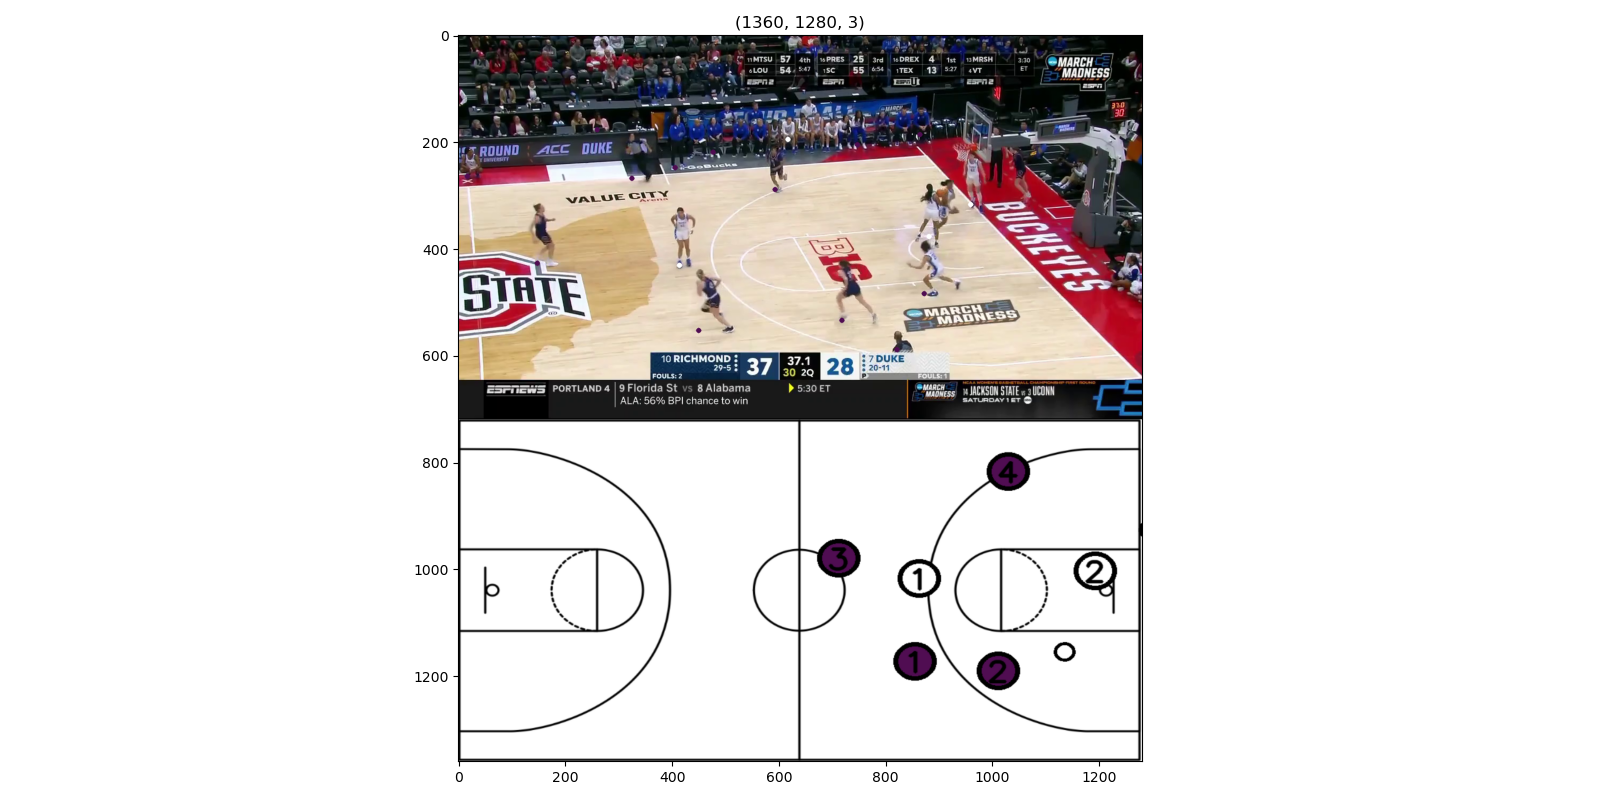
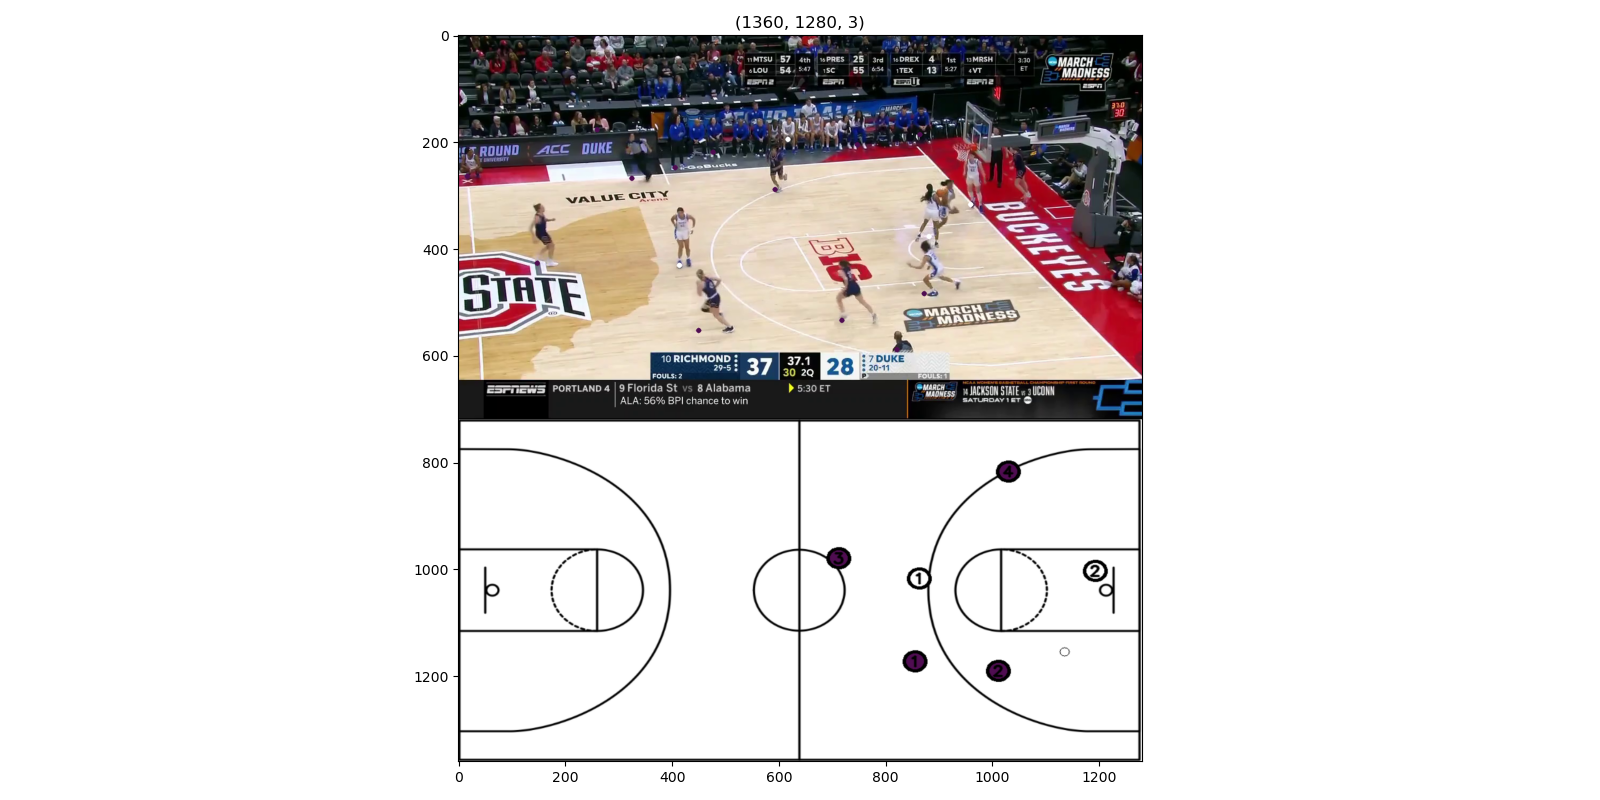
altered ID text size

diff --git a/player_detection.py b/player_detection.py
@@ -179,16 +179,16 @@ class FeetDetector:
         for p in self.players:
             if p.team != 'referee':
                 try:
-                    cv2.circle(map_2d, (p.positions[timestamp]), 10, p.color, 7)
-                    cv2.circle(map_2d, (p.positions[timestamp]), 13, (0, 0, 0), 3)
-                    cv2.circle(map_2d_text, (p.positions[timestamp]), 25, p.color, -1)
-                    cv2.circle(map_2d_text, (p.positions[timestamp]), 27, (0, 0, 0), 5)
-                    text_size, _ = cv2.getTextSize(str(p.ID), cv2.FONT_HERSHEY_SIMPLEX, 1.5, 3)
+                    cv2.circle(map_2d, (p.positions[timestamp]), 5, p.color, 3)
+                    cv2.circle(map_2d, (p.positions[timestamp]), 7, (0, 0, 0), 1)
+                    cv2.circle(map_2d_text, (p.positions[timestamp]), 13, p.color, -1)
+                    cv2.circle(map_2d_text, (p.positions[timestamp]), 15, (0, 0, 0), 3)
+                    text_size, _ = cv2.getTextSize(str(p.ID), cv2.FONT_HERSHEY_SIMPLEX, 0.75, 2)
                     text_origin = (p.positions[timestamp][0] - text_size[0] // 2,
                                    p.positions[timestamp][1] + text_size[1] // 2)
                     cv2.putText(map_2d_text, str(p.ID), text_origin,
-                                cv2.FONT_HERSHEY_SIMPLEX, 1.5,
-                                (0, 0, 0), 3, cv2.LINE_AA)
+                                cv2.FONT_HERSHEY_SIMPLEX, 0.75,
+                                (0, 0, 0), 2, cv2.LINE_AA)
                 except KeyError:
                     pass
 
